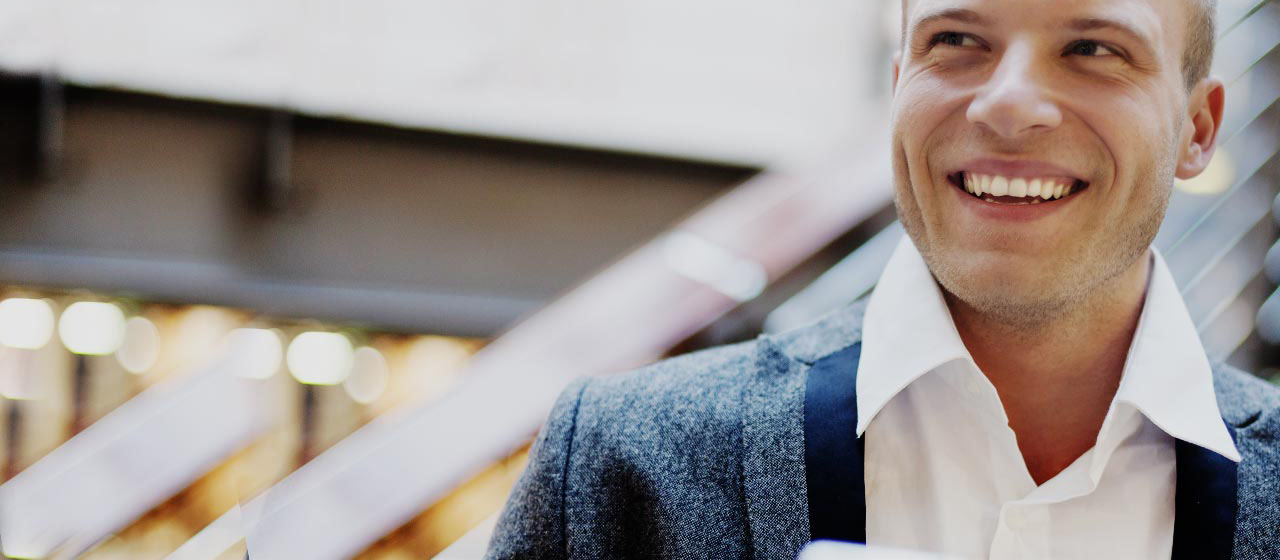
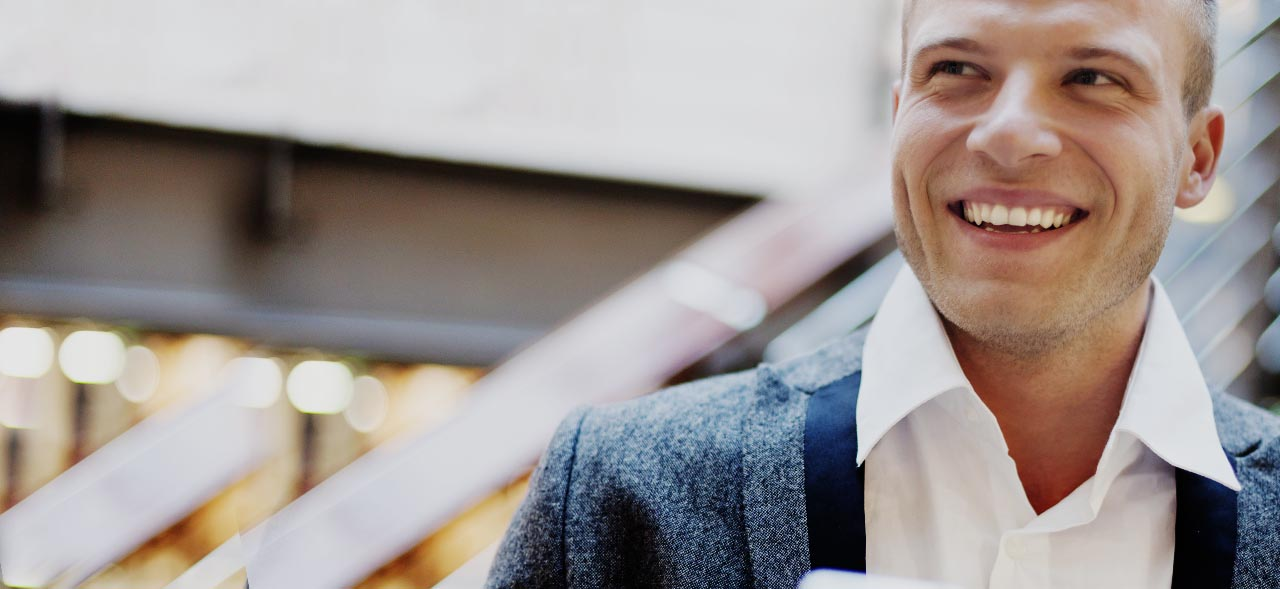
Выполнил верстку слайдера

diff --git a/sass/blocks/slider.scss b/sass/blocks/slider.scss
@@ -1,0 +1,193 @@
+.slider {
+  position: relative;
+  min-height: 53px;
+
+  @media #{$desktop} {
+    min-height: 589px;
+  }
+}
+
+.slider__control {
+  display: none;
+}
+
+.slider__arrows {
+  position: relative;
+
+  .nojs & {
+    display: none;
+  }
+}
+
+.slider__btn {
+  position: absolute;
+  top: 18px;
+  font-size: 0;
+  border: 0;
+  width: 19px;
+  height: 19px;
+  background-color: transparent;
+  // background-color: red; //
+  cursor: pointer;
+
+  &::before {
+    content: '';
+    position: absolute;
+    top: 3px;
+    border: 0;
+    border-top: 3px solid #ffffff;
+    border-left: 3px solid #ffffff;
+    width: 10px;
+    height: 10px;
+  }
+
+  &--prev {
+    left: 20px;
+  }
+
+  &--prev::before {
+    left: 4px;
+    transform: rotate(-45deg);
+  }
+
+  &--next {
+    right: 20px;
+  }
+
+  &--next::before {
+    right: 4px;
+    transform: rotate(135deg);
+  }
+
+  @media #{$desktop} {
+    top: 213px;
+    width: 26px;
+    height: 42px;
+
+    &::before {
+      top: 6px;
+      border-top: 5px solid #ffffff;
+      border-left: 5px solid #ffffff;
+      width: 24px;
+      height: 24px;
+    }
+
+    &--prev {
+      left: 45px;
+    }
+
+    &--next {
+      right: 45px;
+    }
+  }
+}
+
+.slider__dots {
+  display: none;
+  font-size: 0;
+  text-align: center;
+
+  @media #{$desktop} {
+    display: block;
+    position: absolute;
+    top: 348px;
+    right: 0px;
+    left: 0px;
+  }
+}
+
+.slider__dot {
+  display: inline-block;
+  vertical-align: middle;
+  margin: 0px 7px 0px 7px;
+  border: 4px solid #ffffff;
+  border-radius: 50%;
+  padding: 0;
+  cursor: pointer;
+}
+
+#slide1:checked ~ .slider__dots .slider__dot:nth-child(1),
+#slide2:checked ~ .slider__dots .slider__dot:nth-child(2),
+#slide3:checked ~ .slider__dots .slider__dot:nth-child(3),
+#slide4:checked ~ .slider__dots .slider__dot:nth-child(4) {
+  border: 3px solid #fff200;
+  width: 10px;
+  height: 10px;
+  background-color: transparent;
+}
+
+.slider__slides {
+
+}
+
+.slider__slide {
+  display: none;
+  text-align: center;
+  margin: 0;
+  padding: 11px 0px 0px 0px;
+  width: 100%;
+  min-height: 42px;
+  background-color: #cccccc;
+  background-image: url('http://placehold.it/320x53');
+  background-repeat: no-repeat;
+  background-position: top center;
+  background-size: cover;
+
+  &--business {
+    background-image: url('../img/bg-slide1-mobile.jpg');
+  }
+
+  @media #{$desktop} {
+    min-height: 444px;
+    padding: 145px 0px 0px 0px;
+    background-image: url('http://placehold.it/1280x589');
+
+    &--business {
+      background-image: url('../img/bg-slide1-desktop.jpg');
+    }
+  }
+}
+
+#slide1:checked ~ .slider__slides .slider__slide:nth-child(1),
+#slide2:checked ~ .slider__slides .slider__slide:nth-child(2),
+#slide3:checked ~ .slider__slides .slider__slide:nth-child(3),
+#slide4:checked ~ .slider__slides .slider__slide:nth-child(4) {
+  display: block;
+}
+
+.slider__title {
+  display: inline-block;
+  color: #eff2f9;
+  font-size: 18px;
+  font-weight: 700;
+  line-height: 18px;
+  margin: 0;
+  padding: 0px 0px 3px 0px;
+
+  & a {
+    color: #eff2f9;
+    text-decoration: none;
+  }
+
+  @media #{$desktop} {
+    font-size: 83px;
+    line-height: 67px;
+    padding: 0px 0px 14px 0px;
+    border-bottom: 1px solid rgba(255, 255, 255, 0.3);
+  }
+}
+
+.slider__desc {
+  color: #ffffff;
+  font-size: 11px;
+  font-weight: 100;
+  line-height: 12px;
+  margin: 0;
+  padding: 0;
+
+  @media #{$desktop} {
+    font-size: 21px;
+    line-height: 22px;
+    padding: 12px 0px 0px 0px;
+  }
+}

diff --git a/index.html b/index.html
@@ -94,7 +94,7 @@
             <h3 class="slider__title"><a href="#">Слайд 2</a></h3>
             <p class="slider__desc">слайд2 слайд2 слайд2 слайд2</p>
           </div>
-          <div class="slider__slide  slider__slide--businesss">
+          <div class="slider__slide  slider__slide--business">
             <h3 class="slider__title"><a href="#">Малый бизнес</a></h3>
             <p class="slider__desc">от идеи до воплощения 3 дня</p>
           </div>

diff --git a/sass/style.scss b/sass/style.scss
@@ -10,4 +10,6 @@
 @import "blocks/user.scss";
 @import "blocks/location.scss";
 
+@import "blocks/slider.scss";
+
 @import "blocks/overlay.scss";

diff --git a/sass/blocks/page-header.scss b/sass/blocks/page-header.scss
@@ -5,6 +5,6 @@
   background-color: #fcfdff;
 
   @media #{$desktop} {
-    margin-bottom: 43px;
+    margin-bottom: 41px;
   }
 }
